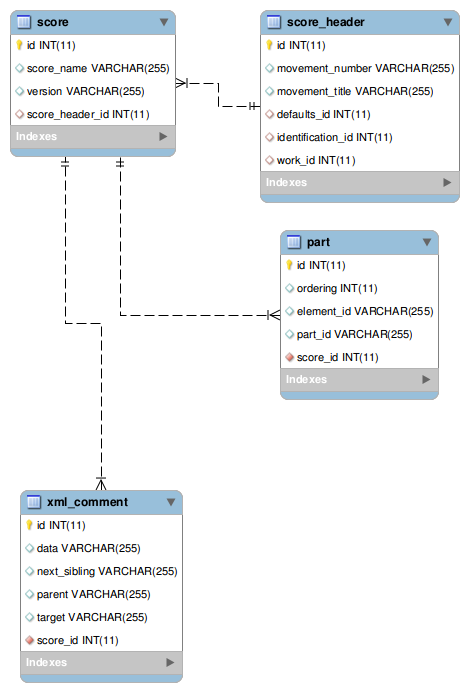
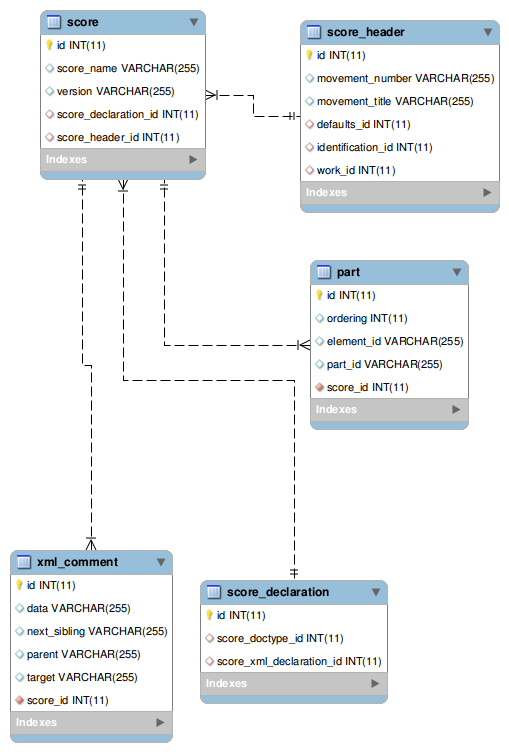
add score declaration references

diff --git a/src/main/java/org/curtis/content/Tables.java b/src/main/java/org/curtis/content/Tables.java
@@ -108,11 +108,14 @@ public class Tables {
             "root_alter",
             "root_step",
             "score",
+            "score_declaration",
+            "score_doctype",
             "score_header",
             "score_instrument",
             "score_midi",
             "score_part_group",
             "score_view",
+            "score_xml_declaration",
             "slash_group",
             "sound_midi",
             "staff_details",
